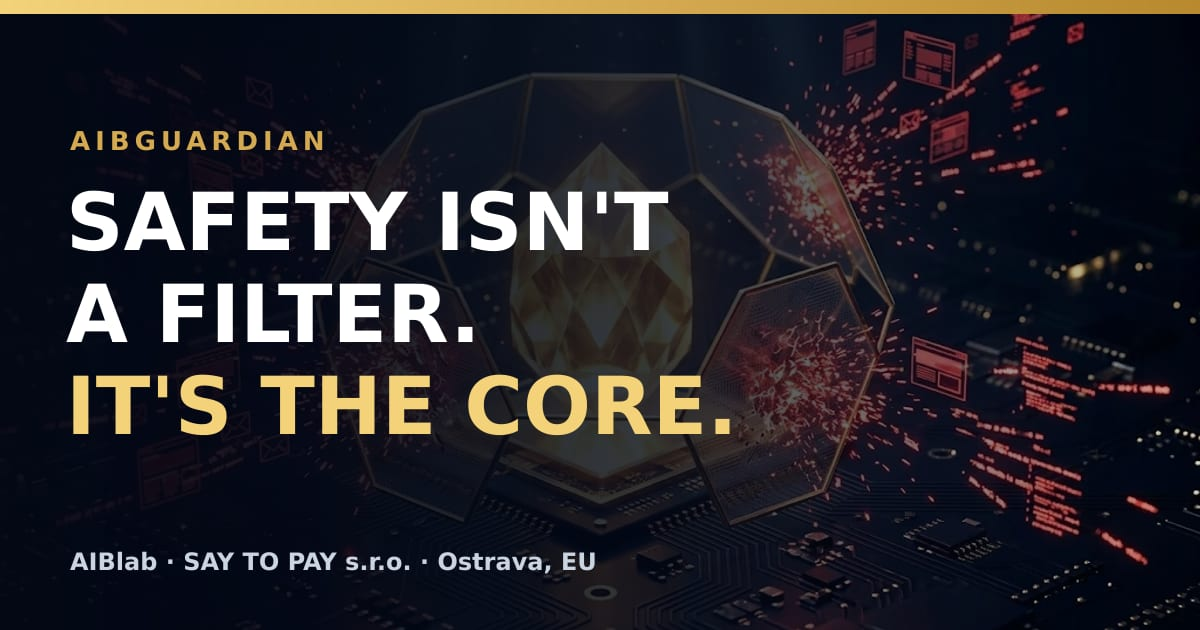
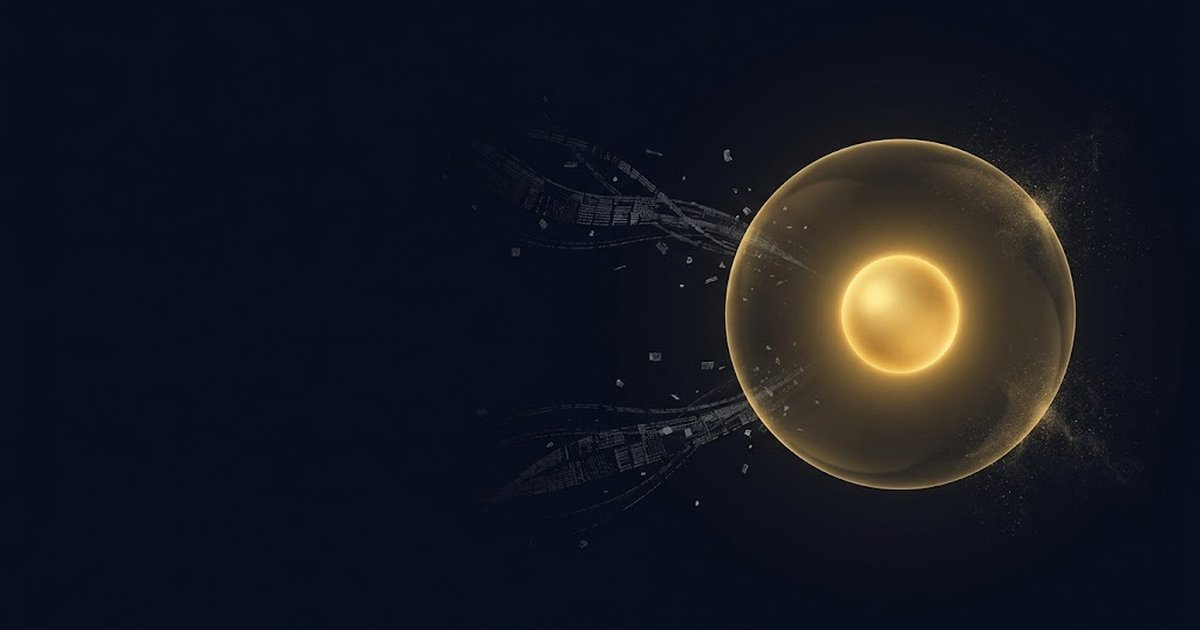
aibguardian.info: own images (hero, what Guardian does, seven layers, never, AIBEVA, og-image)
Claude-Session: https://claude.ai/code/session_01SmSprU9MtXVSg4Y7tx6CBx

diff --git a/components/Safe.tsx b/components/Safe.tsx
@@ -46,12 +46,12 @@ export default function Safe({ highlight, intro }: { highlight?: LayerName; intr
         <div className="grid lg:grid-cols-[minmax(0,5fr)_minmax(0,8fr)] gap-6 lg:gap-8 items-start">
           <div className="lg:sticky lg:top-24 min-w-0">
             <img
-              src={IMAGES.safeLayers.src}
-              alt="Seven layers of AIB.core around one core"
-              width={IMAGES.safeLayers.width}
-              height={IMAGES.safeLayers.height}
+              src={IMAGES.grdLayers.src}
+              alt="Seven gold rings of AIB.core, the Guardian ring brightest, around a shield"
+              width={IMAGES.grdLayers.width}
+              height={IMAGES.grdLayers.height}
               loading="lazy"
-              className="w-full h-auto max-h-[420px] lg:max-h-none object-cover rounded-2xl border border-white/[0.08]"
+              className="block w-full max-w-[240px] sm:max-w-[280px] lg:max-w-[320px] mx-auto h-auto [mask-image:radial-gradient(circle,black_55%,transparent_72%)] [-webkit-mask-image:radial-gradient(circle,black_55%,transparent_72%)]"
             />
           </div>
           <ol className="grid md:grid-cols-2 gap-4 sm:gap-5 min-w-0">

diff --git a/components/Hero.tsx b/components/Hero.tsx
@@ -5,11 +5,11 @@ export default function Hero() {
   return (
     <section className="relative overflow-hidden bg-navy-950">
       <img
-        src={IMAGES.guardian.src}
-        alt="The Guardian layer: outside instructions break against the shield"
-        width={IMAGES.guardian.width}
-        height={IMAGES.guardian.height}
-        className="absolute inset-0 w-full h-full object-cover object-[70%_center] opacity-40 lg:opacity-70"
+        src={IMAGES.grdHero.src}
+        alt="A golden AIB core inside a calm protective field; outside data stops at its surface"
+        width={IMAGES.grdHero.width}
+        height={IMAGES.grdHero.height}
+        className="absolute inset-0 w-full h-full object-cover object-[75%_center] opacity-40 lg:opacity-70"
       />
       <div className="absolute inset-0 bg-gradient-to-r from-navy-950 via-navy-950/85 to-navy-950/30 pointer-events-none" />
       <div className="absolute inset-x-0 bottom-0 h-40 bg-gradient-to-t from-navy-950 to-transparent pointer-events-none" />

diff --git a/components/WhatGuardianDoes.tsx b/components/WhatGuardianDoes.tsx
@@ -1,3 +1,5 @@
+import { IMAGES } from "./images";
+
 const decisions = [
   { word: "ALONE",         text: "Safe, expected steps it may take on its own." },
   { word: "ONLY WITH YOU", text: "Steps that need your explicit yes — every time." },
@@ -27,6 +29,14 @@ export default function WhatGuardianDoes() {
           Guardian is not a word filter bolted on at the end. It sits inside the AIB and decides before anything happens.
         </p>
 
+        <img
+          src={IMAGES.grdDoes.src}
+          alt="Three paths from an AIB core: open, through a gate that waits for you, and ending at a wall of light"
+          width={IMAGES.grdDoes.width}
+          height={IMAGES.grdDoes.height}
+          loading="lazy"
+          className="w-full h-auto max-h-[440px] object-cover rounded-2xl border border-white/[0.08] mb-10 sm:mb-12"
+        />
         <div className="grid sm:grid-cols-3 gap-4 mb-14">
           {decisions.map((d, i) => (
             <div key={d.word}

diff --git a/components/GetAibeva.tsx b/components/GetAibeva.tsx
@@ -18,12 +18,12 @@ export default function GetAibeva({
   return (
     <section id="aibeva" aria-labelledby="aibeva-title" className="relative overflow-hidden bg-navy-950 scroll-mt-16">
       <img
-        src={IMAGES.yourPc.src}
+        src={IMAGES.grdAibeva.src}
         alt="Your AIB lives on your own computer"
-        width={IMAGES.yourPc.width}
-        height={IMAGES.yourPc.height}
+        width={IMAGES.grdAibeva.width}
+        height={IMAGES.grdAibeva.height}
         loading="lazy"
-        className="absolute inset-0 w-full h-full object-cover object-right opacity-60"
+        className="absolute inset-0 w-full h-full object-cover object-left opacity-70"
       />
       <div className="absolute inset-0 bg-gradient-to-r from-navy-950 via-navy-950/90 to-navy-950/40 pointer-events-none" />
       <div className="relative max-w-6xl mx-auto px-4 sm:px-6 py-20 sm:py-28">

diff --git a/components/images.ts b/components/images.ts
@@ -5,6 +5,12 @@ export const IMAGES = {
   yourPc:     { src: "/images/your-aib-on-your-pc.webp", width: 1024, height: 434 },
   guardian:   { src: "/images/guardian-shield.webp",     width: 1024, height: 572 },
   core:       { src: "/images/aib-core-module.webp",     width: 1600, height: 873 },
+  // AIBguardian-only images (4 Oct 2026)
+  grdHero:    { src: "/images/aibguardian-hero.webp",    width: 1024, height: 572 },
+  grdDoes:    { src: "/images/aibguardian-does.webp",    width: 1024, height: 687 },
+  grdLayers:  { src: "/images/aibguardian-layers.webp",  width: 720,  height: 720 },
+  grdNever:   { src: "/images/aibguardian-never.webp",   width: 1024, height: 687 },
+  grdAibeva:  { src: "/images/aibguardian-aibeva.webp",  width: 1024, height: 434 },
 };
 
 export const CORE_CAPTION = "Concept visual — AIB.core hardware edition, in development.";

diff --git a/components/Never.tsx b/components/Never.tsx
@@ -20,10 +20,10 @@ export default function Never() {
         </h2>
         <div className="grid lg:grid-cols-2 gap-8 lg:gap-14 items-center">
           <img
-            src={IMAGES.guardian.src}
-            alt="The Guardian layer: outside instructions break against the shield"
-            width={IMAGES.guardian.width}
-            height={IMAGES.guardian.height}
+            src={IMAGES.grdNever.src}
+            alt="A golden AIB core with seven boundaries of light that are never crossed"
+            width={IMAGES.grdNever.width}
+            height={IMAGES.grdNever.height}
             loading="lazy"
             className="w-full h-auto rounded-2xl border border-white/[0.08] min-w-0"
           />
